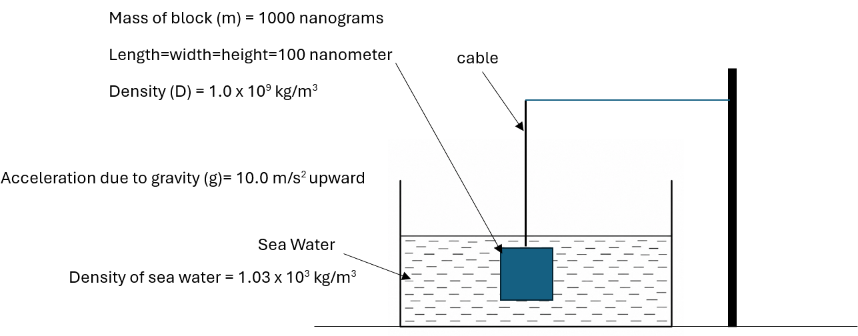
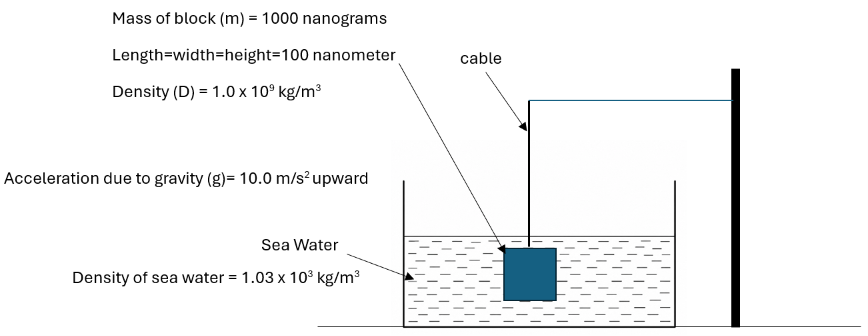
completed editing for image problems

diff --git a/Problems/Image/image_prompts.py b/Problems/Image/image_prompts.py
@@ -3,7 +3,8 @@
 problem_1_keys = ["Problem_1_Regular_Q", "Problem_1_Obvious_Q", "Problem_1_non_obvious_Q"]
 prompt_1= ("You are a physics expert."
                      " From the figure provide a brief description and calculate the total time taken by the block to travel 5 meters."
-                     " All the necessary values required are given in the picture."                                           
+                     " All the necessary values required are given in the picture." 
+                     " Your answer should not have equations and symbols in latex."                                          
 )
 
 dict_1 = dict.fromkeys(problem_1_keys , prompt_1)
@@ -13,7 +14,8 @@ dict_1 = dict.fromkeys(problem_1_keys , prompt_1)
 problem_2_keys = ["Problem_2_Regular_Q", "Problem_2_Obvious_Q", "Problem_2_non_obvious_Q"]
 prompt_2= ("You are a physics expert."
                      " From the figure provide a brief description and calculate the time period of oscillation for small displacements."
-                     " All the necessary values required are given in the picture."  
+                     " All the necessary values required are given in the picture." 
+                     " Your answer should not have equations and symbols in latex." 
 )
 
 dict_2 = dict.fromkeys(problem_2_keys , prompt_2)
@@ -26,6 +28,7 @@ prompt_3= ("You are a physics expert."
                      " the plane using conservation of energy given that the solid sphere rolls without slipping and starts rolling from rest"
                      " unless mentioned."
                      " All the necessary values required are given in the picture."  
+                     " Your answer should not have equations and symbols in latex."
 )
 
 dict_3 = dict.fromkeys(problem_3_keys , prompt_3)
@@ -36,7 +39,8 @@ dict_3 = dict.fromkeys(problem_3_keys , prompt_3)
 problem_4_keys = ["Problem_4_Regular_Q", "Problem_4_Obvious_Q", "Problem_4_non_obvious_Q"]
 prompt_4= ("You are a physics expert."
                      " From the figure provide a brief description and calculate the tension in the string at the bottom the the circle."
-                     " All the necessary values and conditions required are given in the picture."  
+                     " All the necessary values and conditions required are given in the picture." 
+                     " Your answer should not have equations and symbols in latex." 
 )
 
 dict_4 = dict.fromkeys(problem_4_keys , prompt_4)
@@ -48,6 +52,7 @@ problem_5_keys = ["Problem_5_Regular_Q", "Problem_5_Obvious_Q", "Problem_5_non_o
 prompt_5= ("You are a physics expert."
                      " From the figure provide a brief description and calculate the velocity of block A after the collision."
                      " All the necessary values and conditions required are given in the picture."  
+                     " Your answer should not have equations and symbols in latex."
 )
 
 dict_5 = dict.fromkeys(problem_5_keys , prompt_5)
@@ -61,6 +66,7 @@ prompt_6= ("You are a physics expert."
                      " The spring in Fig (a) is now replaced with a block as shown in Fig (b). Calculate the angular frequency"
                      " and the frequecy of the oscillation. In both the cases the force required is proportional to the displacement of the spring."
                      " All the necessary values and conditions required are given in the picture."  
+                     " Your answer should not have equations and symbols in latex."
 )
 
 dict_6 = dict.fromkeys(problem_6_keys , prompt_6)
@@ -72,6 +78,7 @@ problem_7_keys = ["Problem_7_Regular_Q", "Problem_7_Obvious_Q", "Problem_7_non_o
 prompt_7= ("You are a physics expert."
                      " From the figure provide a brief description and calculate the tension (T) in the cable."
                      " All the necessary values required are given in the picture."  
+                     " Your answer should not have equations and symbols in latex."
 )
 
 dict_7 = dict.fromkeys(problem_7_keys , prompt_7)
@@ -84,6 +91,7 @@ prompt_8= ("You are a physics expert."
                      " From the figure provide a brief description and calculate gravitational force between the two bodies on each other"
                      " at the distance which is given in the figure. Consider both the bodies to be spherically symmetric."
                      " All the necessary values required are given in the picture."  
+                     " Your answer should not have equations and symbols in latex."
 )
 
 dict_8 = dict.fromkeys(problem_8_keys , prompt_8)

diff --git a/Problems/Video/video_prompts.py b/Problems/Video/video_prompts.py
@@ -3,7 +3,8 @@
 problem_1_keys = ["Problem_1_Regular_Q", "Problem_1_Obvious_Q", "Problem_1_non_Obvious_Q"]
 prompt_1= ("You are a physics expert."
                      " From the video provide a brief description and calculate the total time taken by the block to travel 5 meters."
-                     " All the necessary values required are given in the video."                                           
+                     " All the necessary values required are given in the video." 
+                     " Your answer should not have equations and symbols in latex."                                          
 )
 
 dict_1 = dict.fromkeys(problem_1_keys , prompt_1)
@@ -16,6 +17,7 @@ problem_2_keys = ["Problem_2_Regular_Q", "Problem_2_Obvious_Q", "Problem_2_non_o
 prompt_2= ("You are a physics expert."
                      " From the video provide a brief description and calculate the time period of oscillation for small displacements."
                      " All the necessary values required are given in the video."  
+                     " Your answer should not have equations and symbols in latex."
 )
 
 dict_2 = dict.fromkeys(problem_2_keys , prompt_2)
@@ -30,6 +32,7 @@ prompt_3= ("You are a physics expert."
                      " the plane using conservation of energy given that the solid sphere rolls without slipping and starts rolling from rest"
                      " unless mentioned."
                      " All the necessary values required are given in the video."  
+                     " Your answer should not have equations and symbols in latex."
 )
 
 dict_3 = dict.fromkeys(problem_3_keys , prompt_3)
@@ -41,6 +44,7 @@ problem_4_keys = ["Problem_4_Regular_Q", "Problem_4_Obvious_Q", "Problem_4_non_o
 prompt_4= ("You are a physics expert."
                      " From the video provide a brief description and calculate the tension in the string at the bottom the the circle."
                      " All the necessary values and conditions required are given in the video."  
+                     " Your answer should not have equations and symbols in latex."
 )
 
 dict_4 = dict.fromkeys(problem_4_keys , prompt_4)
@@ -51,7 +55,8 @@ dict_4 = dict.fromkeys(problem_4_keys , prompt_4)
 problem_5_keys = ["Problem_5_Regular_Q", "Problem_5_Obvious_Q", "Problem_5_non_obvious_Q"]
 prompt_5= ("You are a physics expert."
                      " From the video provide a brief description and calculate the velocity of block A after the collision."
-                     " All the necessary values and conditions required are given in the video."  
+                     " All the necessary values and conditions required are given in the video." 
+                     " Your answer should not have equations and symbols in latex." 
 )
 
 dict_5 = dict.fromkeys(problem_5_keys , prompt_5)
@@ -66,6 +71,7 @@ prompt_6= ("You are a physics expert."
                      " Calculate the angular frequency and the frequecy of the oscillation."
                      " In both the cases the force required is proportional to the displacement of the spring."
                      " All the necessary values and conditions required are given in the video."  
+                     " Your answer should not have equations and symbols in latex."
 )
 
 dict_6 = dict.fromkeys(problem_6_keys , prompt_6)
@@ -76,7 +82,8 @@ dict_6 = dict.fromkeys(problem_6_keys , prompt_6)
 problem_7_keys = ["Problem_7_Regular_Q", "Problem_7_Obvious_Q", "Problem_7_non_obvious_Q"]
 prompt_7= ("You are a physics expert."
                      " From the video provide a brief description and calculate the tension (T) in the cable."
-                     " All the necessary values required are given in the video."  
+                     " All the necessary values required are given in the video." 
+                     " Your answer should not have equations and symbols in latex." 
 )
 
 dict_7 = dict.fromkeys(problem_7_keys , prompt_7)
@@ -89,6 +96,7 @@ prompt_8= ("You are a physics expert."
                      " From the video provide a brief description and calculate gravitational force between the two bodies on each other"
                      " at the distance which is given in the figure. Consider both the bodies to be spherically symmetric."
                      " All the necessary values required are given in the video."  
+                     " Your answer should not have equations and symbols in latex."
 )
 
 dict_8 = dict.fromkeys(problem_8_keys , prompt_8)
